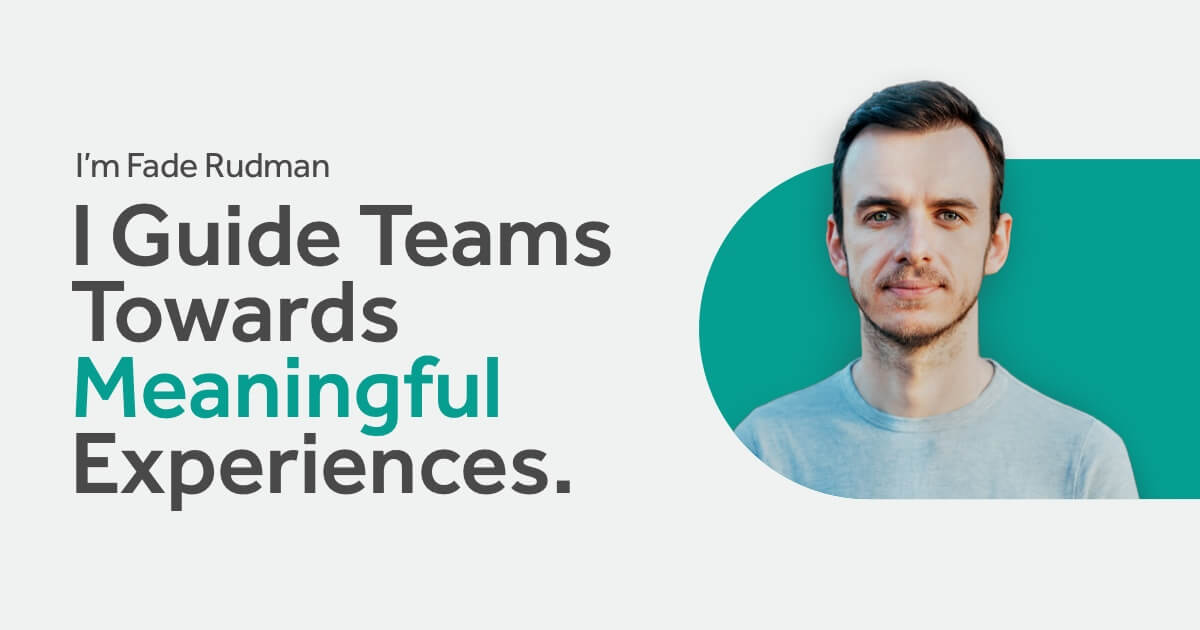
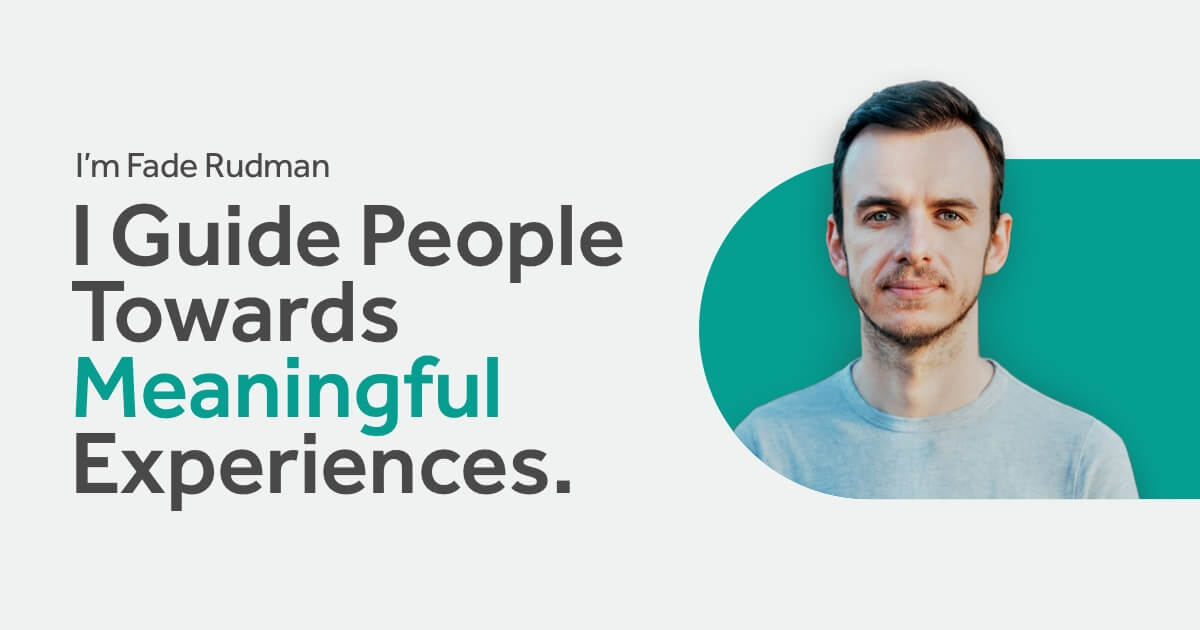
Content and structure changes following feedback
Changed headline text
Modified projects section to sound more like impact and less like employment
Shortened Let's Talk section
Made necessary CSS changes to support all the above

Changed region(s): [[0.2775, 0.3317, 0.5242, 0.4524]]

diff --git a/experiences/index.html b/experiences/index.html
@@ -1,7 +1,7 @@
 <!DOCTYPE html>
 <html>
   <head>
-    <title>Fade Rudman - I Guide Teams Towards Meaningful Experiences.</title>
+    <title>Fade Rudman - I Guide People Towards Meaningful Experiences.</title>
 
     <meta charset="utf-8">
     <meta name="viewport" content="width=device-width, initial-scale=1.0, minimum-scale=1.0, maximum-scale=1.0">
@@ -21,11 +21,11 @@
 
     <!-- open graph -->
     <meta property="og:title" content="Fade Rudman">
-    <meta property="og:description" content="I Guide Teams Towards Meaningful Experiences.">
+    <meta property="og:description" content="I Guide People Towards Meaningful Experiences.">
     <meta property="og:image" content="https://faderud.com/experiences/img/social_meta_image.jpg">
     <meta property="og:url" content="https://faderud.com">
     <meta name="twitter:title" content="Fade Rudman">
-    <meta name="twitter:description" content="I Guide Teams Towards Meaningful Experiences.">
+    <meta name="twitter:description" content="I Guide People Towards Meaningful Experiences.">
     <meta name="twitter:image" content="https://faderud.com/experiences/img/social_meta_image.jpg">
     <meta name="twitter:card" content="summary_large_image">
 
@@ -44,7 +44,7 @@
         <div>
           <h4>Hey, I&rsquo;m Fade Rudman.</h4>
           <h1>
-            I Guide Teams Towards
+            I Guide People Towards
             <em>Meaningful</em> <em>Authentic</em> <em>Trustworthy</em> <em>Effortless</em> <em>Humane</em>
             <br /><br />
             Experiences.
@@ -143,8 +143,7 @@
           <div class="left">
             <div>
               <h4>Shoot me an email</h4>
-              <p>It&rsquo;s the best way to get my attention. I&rsquo;m at <a href="mailto:fade@faderud.com?subject=Hey%2C%20I%27m%20coming%20from%20your%20website">fade@faderud.com</a></p>
-              <a href="mailto:fade@faderud.com?subject=Hey%2C%20I%27m%20coming%20from%20your%20website" class="button">Email Me</a>
+              <a href="mailto:fade@faderud.com?subject=Hey%2C%20I%27m%20coming%20from%20your%20website" class="button">fade@faderud.com</a>
             </div>
           </div>
           <div class="right">
@@ -163,12 +162,11 @@
           </div>
         </div>
       </footer>
-      <section class="project" id="the_rest">
+      <section class="project">
         <div class="left pad-w280">
+          <p></p>
           <h3>Made the Web, Better</h3>
-          <h5><a href="https://www.stackbit.com" target="_blank">Stackbit</a></h5>
-          <small>During 2019-2020</small>
-          <a href="https://www.stackbit.com/" target="_blank" class="button">Visit</a>
+          <a href="https://www.stackbit.com" target="_blank"><img class="customer-logo" src="img/stackbit-logo.svg" alt="Stackbit Website" /></a>
           <p>Stackbit is the first open, complete platform for the Jamstack - it&rsquo;s the easiest way to get started with the best tools for the modern web.</p>
           <p>I led design and user experience, collaborating with a rapidly-moving team of aces.</p>
         </div>
@@ -179,15 +177,14 @@
           </picture>
         </div>
       </section>
-
       <section class="project" id="the_rest">
         <div class="left pad-w280">
+          <p></p>
           <h3>Helped Reimagine the Possibilities of Active Play</h3>
-          <h5><a href="https://playobie.com" target="_blank">EyeClick</a></h5>
-          <small>During 2018-2019</small>
-          <a href="https://playobie.com" target="_blank" class="button">Visit</a>&nbsp;&nbsp;<a href="https://www.frogdesign.com/work/transforming-state-play-kids?utm_source=Twitter&utm_medium=Social&utm_campaign=February_Social_Q1_2020" target="_blank" class="button">Case Study</a>
+          <div style="text-align: left"><a href="https://playobie.com" target="_blank"><img class="customer-logo" src="img/obie-logo.svg" alt="Obie Website" /></a></div>
           <p>Obie is an interactive gaming console - the next level of active play.</p>
           <p>I led the product, bringing conceptual designs and models to a ready-for-production device and experience.</p>
+          <a href="https://www.frogdesign.com/work/transforming-state-play-kids?utm_source=Twitter&utm_medium=Social&utm_campaign=February_Social_Q1_2020" target="_blank" class="button">Case Study</a>
         </div>
         <div class="right">
           <picture>
@@ -196,12 +193,11 @@
           </picture>
         </div>
       </section>
-
       <section class="project">
         <div class="left pad-w280">
+          <p></p>
           <h3>Enabled Products to Respond to Their Users</h3>
-          <h5><a href="https://theneura.com" target="_blank">Neura</a></h5>
-          <small>During 2015-2018</small>
+          <a href="https://theneura.com" target="_blank"><img class="customer-logo" src="img/neura-logo.svg" alt="Neura Website" /></a>
           <p>Neura is AI as a service, which enables products to securely respond to who their users are and what they do.</p>
           <p>I&rsquo;ve done product planning, definition and execution, coordinated with R&D and customers. Hands-on plus management of external product design teams.</p>
         </div>
@@ -216,13 +212,11 @@
           </picture>
         </div>
       </section>
-
       <section class="project">
         <div class="left pad-w280">
+          <p></p>
           <h3>Helped Developers Personalize Their Products</h3>
-          <h5><a href="https://theneura.com" target="_blank">Neura</a></h5>
-          <small>During 2015-2018</small>
-          <a href="https://dev.theneura.com/" target="_blank" class="button">Visit</a>
+          <a href="https://theneura.com" target="_blank"><img class="customer-logo" src="img/neura-logo.svg" alt="Neura Website" /></a>
           <p>Created a developer journey from zero to successful integration across multiple platforms.</p>
           <p>Directly assisted customers in utilizing Neura&rsquo;s technology to create truly personal experiences.</p>
         </div>
@@ -237,14 +231,12 @@
           </picture>
         </div>
       </section>
-
       <section class="project" id="phone">
         <div class="left">
+          <p></p>
           <h3>Worked on the First Contextual Phone</h3>
-          <h5>EverythingMe</h5>
-          <small>During 2012-2015</small>
+          <a href="https://thenextweb.com/apps/2015/11/22/everythingme-launcher-is-shutting-down/" target="_blank"><img class="customer-logo" src="img/evme-logo.svg" alt="EverythingMe" /></a>
           <p>I led a team which created adaptive and immersive mobile experiences before Siri or Google Now even launched. Implemented in both Android and Mozilla FirefoxOS platforms.</p>
-          <a href="https://thenextweb.com/apps/2015/11/22/everythingme-launcher-is-shutting-down/" target="_blank" class="button">Project Shut Down in 2015</a>
         </div>
         <div class="right" id="evme">
           <div id="firefox_os">
@@ -297,40 +289,15 @@
           </div>
         </div>
       </section>
-      <section class="project extra-content">
-        <div class="left">
-          <p>Flexible branding systems, built to adjust according to world events and various contexts.</p>
-        </div>
-        <div class="right mobile-w290">
-          <picture>
-            <source media="(max-width: 550px)" srcset="img/mobile/evme_logo_mobile.png 1x, img/mobile/evme_logo_mobile@2x.png 2x, img/mobile/evme_logo_mobile@3x.png 3x">
-            <img src="img/evme_logo@2x.png" width="780" height="155" class="no-shadow" />
-          </picture>
-        </div>
-      </section>
-      <section class="project extra-content">
-        <div class="left">
-          <p>Branded collateral, contextual to its owner.</p>
-        </div>
-        <div class="right">
-          <picture>
-            <source media="(max-width: 550px)" srcset="img/mobile/evme_businesscard_mobile.png 1x, img/mobile/evme_businesscard_mobile@2x.png 2x, img/mobile/evme_businesscard_mobile@3x.png 3x">
-            <img src="img/evme_businesscard@2x.png" width="855" height="498" class="no-shadow" />
-          </picture>
-        </div>
-      </section>
-
       </div>
     </div>
-
     <footer class="container">
       <h2 id="lets-talk">Let&rsquo;s talk</h2>
       <div id="footer-content">
         <div class="left">
           <div>
             <h4>Shoot me an email</h4>
-            <p>It&rsquo;s the best way to get my attention. I&rsquo;m at <a href="mailto:fade@faderud.com?subject=Hey%2C%20I%27m%20coming%20from%20your%20website">fade@faderud.com</a></p>
-            <a href="mailto:fade@faderud.com?subject=Hey%2C%20I%27m%20coming%20from%20your%20website" class="button">Email Me</a>
+            <a href="mailto:fade@faderud.com?subject=Hey%2C%20I%27m%20coming%20from%20your%20website" class="button">fade@faderud.com</a>
           </div>
           <span id="copyright">&copy; Fade Rudman 2021. All Rights Reserved.</span>
         </div>

diff --git a/experiences/css/tablet-portrait.css b/experiences/css/tablet-portrait.css
@@ -61,7 +61,7 @@ section#product-design {
 }
 
 h1 {
-  font-size: 80px;
+  font-size: 75px;
   line-height: 68px;
   letter-spacing: -0.3px;
 }
@@ -149,7 +149,15 @@ ul:first-of-type {
   height: auto;
   box-shadow: 0 6px 32px 0 rgba(0, 0, 0, 0.08);
   display: block;
-  margin: 0 auto 20px !important;
+  margin: 0;
+}
+
+.project img.customer-logo {
+  width: initial;
+  height: auto;
+  box-shadow: none;
+  display: block;
+  margin: auto auto auto 0;
 }
 
 .project picture:first-of-type img {
@@ -249,7 +257,7 @@ footer .left #social {
 }
 
 #footer-content {
-  flex-direction: column;
+  flex-direction: row;
   position: relative;
   padding-bottom: 58px;
 }

diff --git a/experiences/css/mobile-landscape.css b/experiences/css/mobile-landscape.css
@@ -122,13 +122,22 @@ nav .button {
   position: relative;
 }
 
+.project img.customer-logo {
+  width: initial;
+  height: auto;
+  box-shadow: none;
+  display: block;
+  margin: 0 auto 20px 0;
+}
+
 .project img {
   width: 100%;
   height: auto;
   box-shadow: 0 6px 32px 0 rgba(0, 0, 0, 0.08);
   display: block;
-  margin: 0 auto 20px !important;
+  margin: 0 auto 20px;
 }
+
 
 .project picture:first-of-type img {
   margin-top: 40px;
@@ -269,7 +278,7 @@ footer .left #social {
 }
 
 #footer-content {
-  flex-direction: column;
+  flex-direction: row;
   position: relative;
   padding-bottom: 58px;
 }

diff --git a/experiences/css/mobile.css b/experiences/css/mobile.css
@@ -112,6 +112,15 @@ nav .button {
   margin: 0 auto 20px;
 }
 
+
+.project img.customer-logo {
+  width: initial;
+  height: auto;
+  box-shadow: none;
+  display: block;
+  margin: 0 auto 20px 0;
+}
+
 .project picture:first-of-type img {
   margin-top: 40px;
 }
@@ -155,7 +164,7 @@ nav .button {
 }
 
 #footer-content {
-  flex-direction: column;
+  flex-direction: row;
   position: relative;
   padding-bottom: 58px;
 }

diff --git a/experiences/css/desktop.css b/experiences/css/desktop.css
@@ -54,7 +54,7 @@ section:not(#main),
 
 section .left {
   width: 579px;
-  padding-right: 110px;
+  padding-right: 50px;
 }
 
 nav .container {
@@ -234,11 +234,11 @@ footer {
 
 #footer-content {
   display: flex;
-  justify-content: space-between;
+  /*justify-content: space-between;*/
 }
 
 footer .left, footer .right {
-  width: 549px;
+  width: 250px;
   margin-right: 22px;
 }
 

diff --git a/experiences/css/common.css b/experiences/css/common.css
@@ -350,6 +350,7 @@ picture:last-of-type img {
   width: 40px;
   height: 40px;
   text-align: center;
+  margin-top: 7px;
   margin-right: 4px;
   overflow: hidden;
   border-radius: 50%;

diff --git a/experiences/css/tablet.css b/experiences/css/tablet.css
@@ -1,5 +1,5 @@
 h1 {
-  font-size: 80px;
+  font-size: 70px;
   line-height: 68px;
   letter-spacing: -0.3px;
 }
